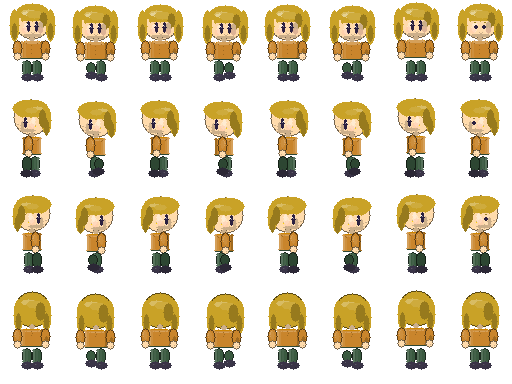
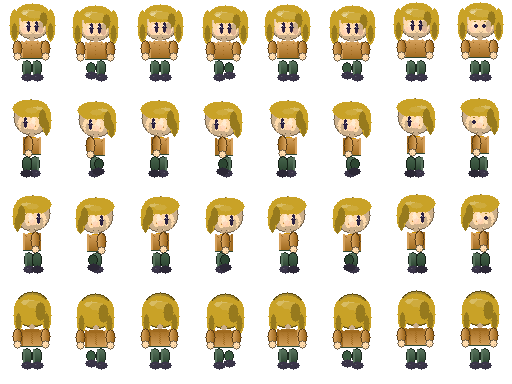
fix: regenerate sprites from current char-draw.ts, zoom OG image (scale 3, 64×96 frames)

diff --git a/scripts/generate-og-image.ts b/scripts/generate-og-image.ts
@@ -174,13 +174,13 @@ drawText(img, subtitle, subX + 2, titleY + 7 * titleScale + 30 + 2, subScale, 60
 drawText(img, subtitle, subX, titleY + 7 * titleScale + 30, subScale, 160, 165, 180);
 
 // ── Character sprites along the bottom ────────────────────────────────────
-const charFiles = ["char-0.png", "char-1.png", "char-2.png", "char-3.png", "char-4.png", "char-5.png", "char-6.png", "char-7.png"];
+const charFiles = ["char-0.png", "char-1.png", "char-2.png", "char-3.png", "char-4.png", "char-5.png"];
 const FRAME_W = 64;
 const FRAME_H = 96;
-const charScale = 2;
-const charGap = 24;
+const charScale = 3;
+const charGap = 8;
 const charStartX = Math.floor((W - (charFiles.length * FRAME_W * charScale + (charFiles.length - 1) * charGap)) / 2);
-const charY = 330;
+const charY = 300;
 for (let i = 0; i < charFiles.length; i++) {
   const char = loadPNG(join(assetsDir, "characters", charFiles[i]));
   // Extract the first frame (top-left 64×96 region of the spritesheet)
